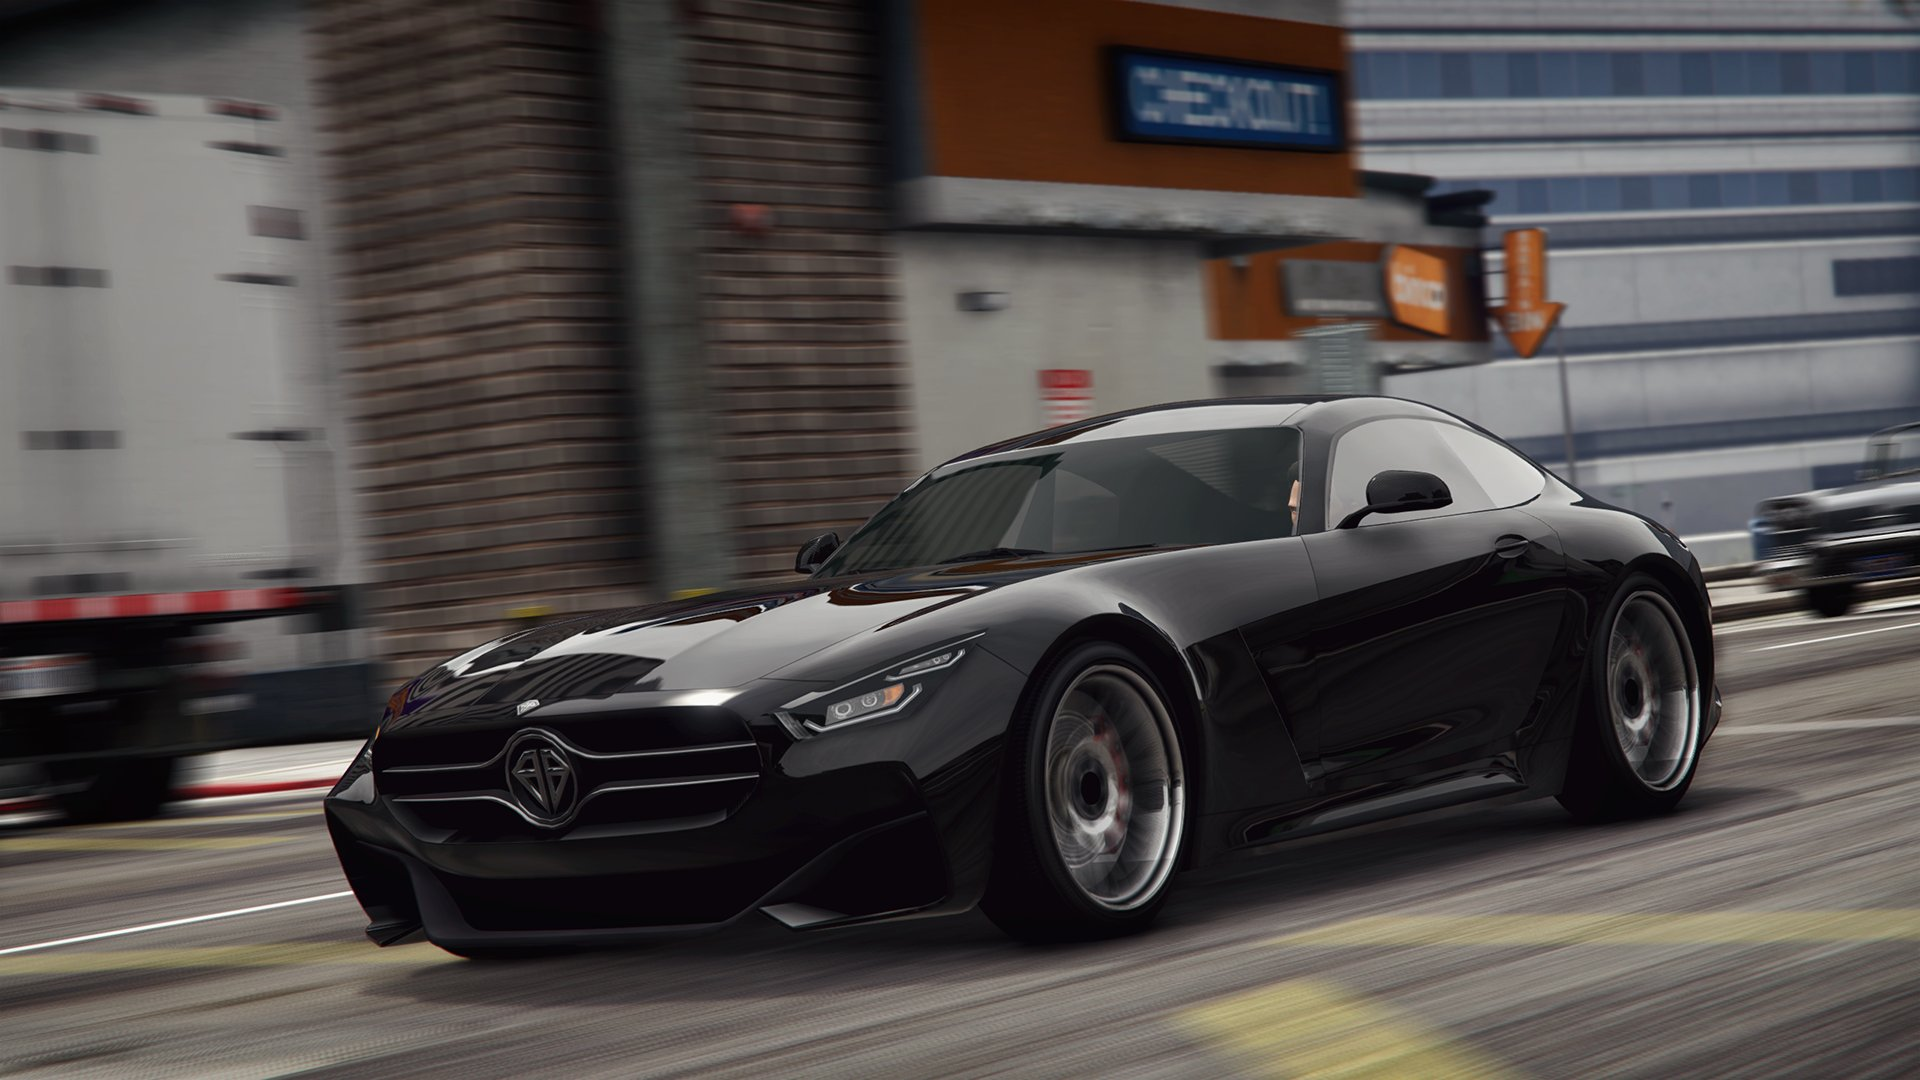
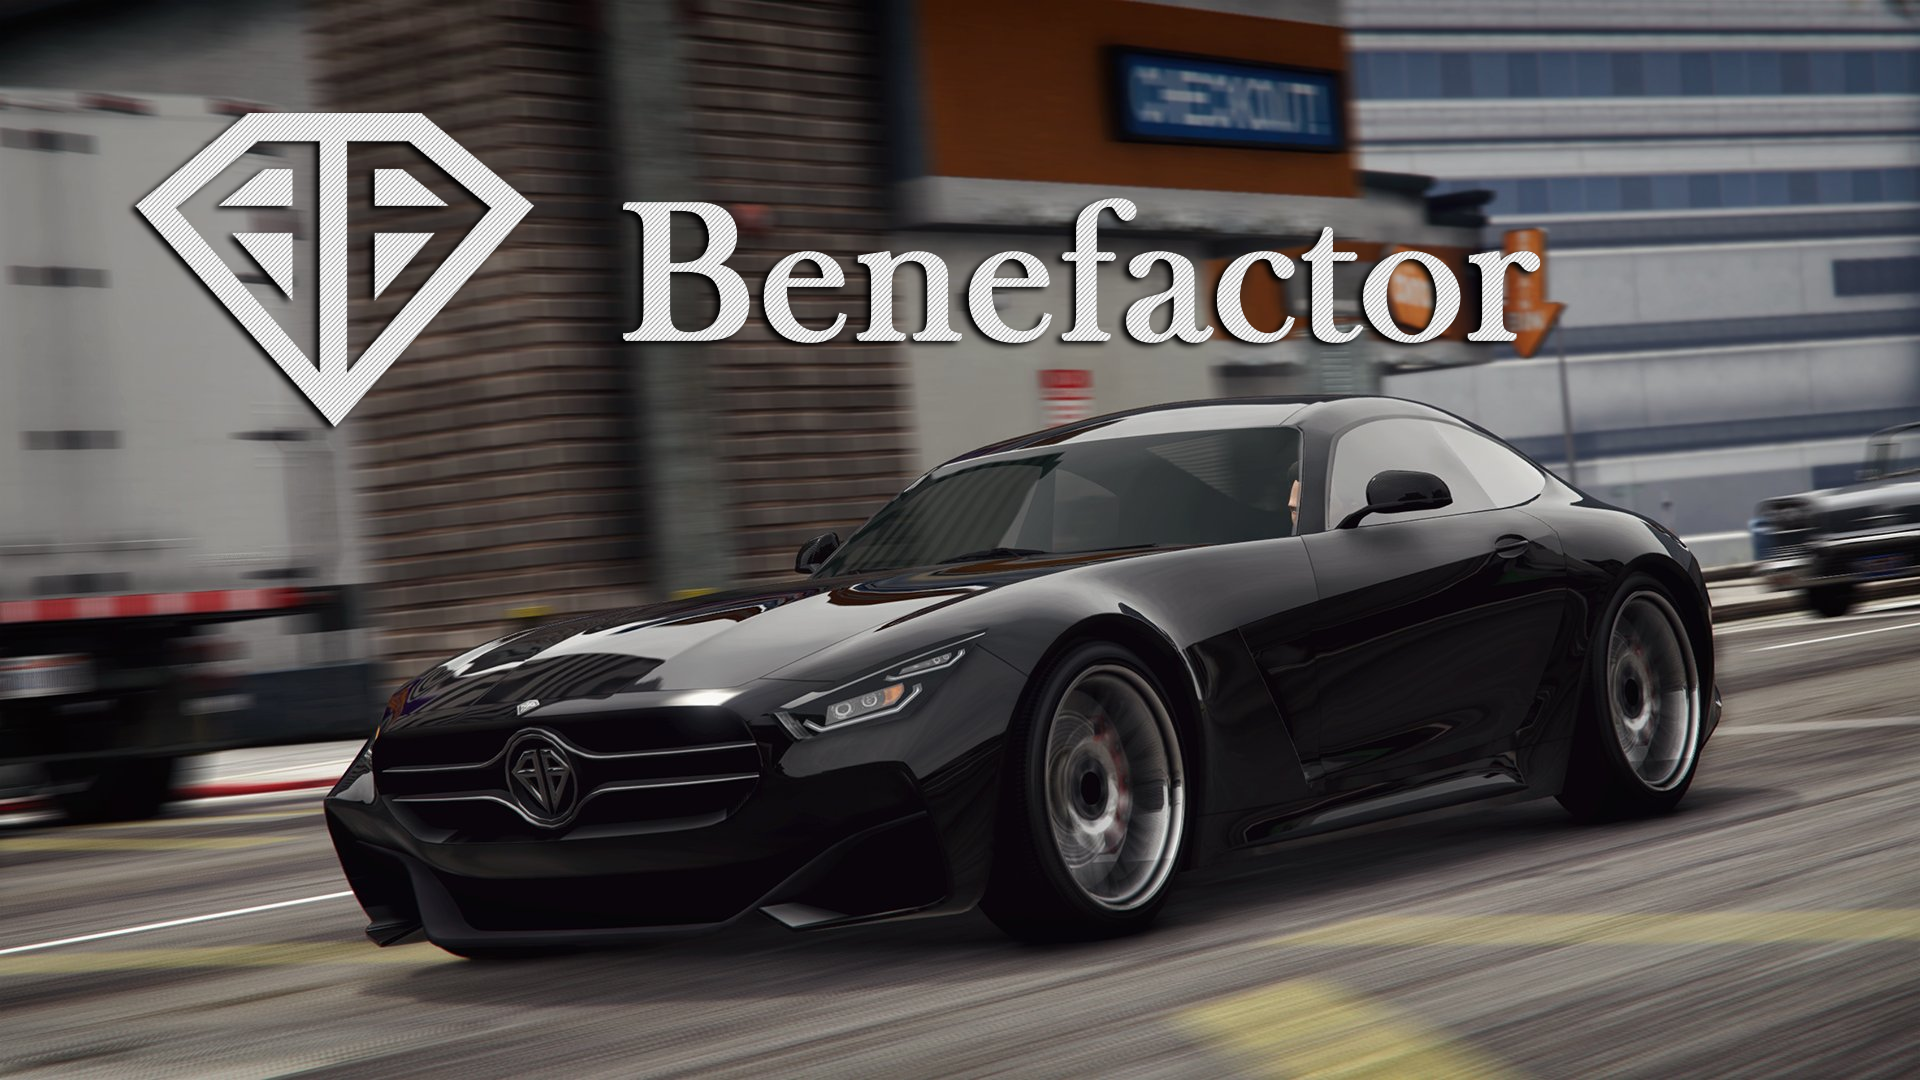
Fixes og forbedringer på forsiden. Ændret i headerimg. (Det gamle er der stadig, rolig.)

Changed region(s): [[0.3125, 0.1833, 0.8125, 0.3361], [0.0625, 0.0917, 0.2812, 0.3972]]

diff --git a/index.html b/index.html
@@ -14,19 +14,18 @@
 
 <body>
     <div class="bfTopMenu">
-        <div class="overlay">
+        <a href="#" class="overlay">
             <div class="topbarlogowrap">
                 <h1>Benefactor</h1>
                 <img src="images/bflogoWhite.png" alt="BenefactorLogo">
             </div>
             <div class="line1"></div>
             <div class="line2"></div>
-        </div>
+        </a>
     </div>
 
     <div class="bfSideMenu">
         <div class="overlay">
-<!--            <div class="space"></div>-->
             <img class="homeIcon top" src="images/iconHome.png" alt="BenefactorLogo">
             <img class="homeIcon bot" src="images/iconHomeOutline.png" alt="BenefactorLogo">
 
@@ -40,8 +39,8 @@
             <img class="phoneIcon bot" src="images/iconPhoneOutline.png" alt="BenefactorLogo">
 
 
-            <a href="#home" class="homeLine">Home</a>
-            <a href="productpage.html" class="bookLine">Models</a>
+            <a href="#" class="homeLine">Home</a>
+            <a href="products.html" class="bookLine">Models</a>
             <a href="#" class="wrenchLine">Book service</a>
             <a href="#contactSection" class="phoneLine">Contact us</a>
 
@@ -66,7 +65,7 @@
                 </div>
 
                 <div class="botBox">
-                    <h3>Build your Benefactor</h3>
+                    <h5>Build your Benefactor</h5>
                 </div>
             </div>
 
@@ -77,7 +76,7 @@
                 </div>
 
                 <div class="botBox">
-                    <h3>Build your Benefactor</h3>
+                    <h5>Build your Benefactor</h5>
                 </div>
             </div>
 
@@ -88,7 +87,7 @@
                 </div>
 
                 <div class="botBox">
-                    <h3>Build your Benefactor</h3>
+                    <h5>Build your Benefactor</h5>
                 </div>
             </div>
 
@@ -99,7 +98,7 @@
                 </div>
 
                 <a class="botBox">
-                    <h3>Build your Benefactor</h3>
+                    <h5>Build your Benefactor</h5>
                 </a>
             </div>
 
@@ -109,9 +108,9 @@
                     <h3>$ 208,000*</h3>
                 </div>
 
-                <div class="botBox">
-                    <h3>Build your Benefactor</h3>
-                </div>
+                <a href="productpage.html" class="botBox" style="text-decoration: none;">
+                    <h5>Build your Benefactor</h5>
+                </a>
             </div>
 
             <div class="xlsModel">
@@ -121,28 +120,28 @@
                 </div>
 
                 <div class="botBox">
-                    <h3>Build your Benefactor</h3>
+                    <h5>Build your Benefactor</h5>
                 </div>
             </div>
 
 
         </div>
     </div>
-    <h1 class="fancyOffersH1">Fancy offers</h1>
+    <h1 class="fancyOffersH1">Special Offers</h1>
     <div class="fancyOffers">
 
         <div class="stirling">
             <img src="images/Stirling%20GT.png" alt="stirlingGT">
             <div>
-                <h3>Special offcer!</h3>
+                <h3>Exclusive Offer!</h3>
                 <h2>Sterling GT</h2>
                 <h4>The classic 2-door coupe!</h4>
 
                 <p>The Stirling GT is a landmark of Germany's proud history of helping flabby, self-loathing businessmen pretend they're Grand Prix drivers... for two minutes between freeway traffic jams.
                     It's a tradition that's been around for at least sixty years, so while it's still pathetic, at least it got there first.</p>
-                <div class="offerButton">
+                <a class="offerButton">
                     Get your own exclusive deal right here!
-                </div>
+                </a>
             </div>
         </div>
 
@@ -260,9 +259,6 @@
             <p></p>
             <a href="#">-  Road assistance</a>
         </div>
-<!--        <div class="spacer">-->
-
-<!--        </div>-->
     </div>
 
     <div class="spacer">
@@ -272,8 +268,6 @@
         <img class="road" src="images/road.png" alt="car">
 
     </div>
-
-<!--    <div class="spacerrr"></div>-->
 
     <script src="https://ajax.googleapis.com/ajax/libs/jquery/3.4.1/jquery.min.js"></script>
     <script>
@@ -332,14 +326,6 @@
                 "background-color": "rgba(0, 0, 0, 0.5)"
             })
         })
-
-        // $(".carAnimate").animate({
-        //     left: "600px"
-        // }, "slow" )
-
-
-
-
 
 
     </script>

diff --git a/css/styles.css b/css/styles.css
@@ -38,13 +38,13 @@ img {
 	height: 7vh;
 	position: fixed;
 	background-image: url("../images/topbarBG.png");
-	/*background-image: url("../images/bflogoWhite.png");*/
 }
 
 .overlay{
 	width: 100%;
 	height: 100%;
 	background-color: rgba(0, 0, 0, 0.5);
+	text-decoration: none;
 }
 
 .topbarlogowrap{
@@ -145,8 +145,8 @@ img {
 
 .overlay a{
 	display: none;
-	font-size: 3rem;
-	font-family: "Open Sans Light", serif;
+	font-size: 2.5rem;
+	font-family: 'News Cycle', sans-serif;
 	font-weight: lighter;
 	text-decoration: none;
 	color: white;
@@ -159,7 +159,8 @@ img {
 .overlay a:hover{
 	color: orange;
 	pointer-events: none;
-	font-family: 'Open Sans', sans-serif;
+	font-family: 'News Cycle', sans-serif;
+	text-decoration: none;
 }
 
 .homeLine{
@@ -202,11 +203,12 @@ img {
 
 .modelsGrid{
 	display: grid;
-	/*grid-column-gap: 3.5vh;*/
+	grid-column-gap: 3.5vh;
+	grid-row-gap: 3.5vh;
 	grid-template-columns: repeat(3, 1fr);
 }
 
-.modelsGrid div h2, h3{
+.modelsGrid div h2, h3, h5{
 	margin: 0;
 	color: white;
 	text-align: left;
@@ -220,10 +222,17 @@ img {
 	font-size: 30px;
 	line-height: 30px;
 }
-.modelsGrid div h3{
+
+.modelsGrid div h3 {
 	font-size: 15px;
 	line-height: 15px;
 }
+
+.modelsGrid div h5 {
+	font-size: 15px;
+	line-height: 15px;
+}
+
 
 .modelsGrid div{
 	background-size: 100%;
@@ -278,12 +287,13 @@ img {
 	justify-content: center;
 }
 
-.botBox:hover h3{
-	color: orange;
+.botBox:hover, h5:hover {
+	color: black;
 	pointer-events: none;
+	background-color: orange;
 }
 
-.botBox h3{
+.botBox h3, h5{
 	font-size: 16px;
 	font-weight: 500;
 	align-self: center;
@@ -351,6 +361,10 @@ img {
 	border-radius: 2px;
 }
 
+.offerButton:hover{
+	background-color: orange;
+	color: black;
+}
 
 .stirling, .terrorbyte, .krieger{
 	display: grid;
@@ -443,7 +457,7 @@ img {
 	font-family: 'News Cycle', sans-serif;
 	padding: 0 0 0 7vh;
 	margin: 0;
-	font-size: 30px;
+	font-size: 25px;
 	color: #4F4F4F;
 }
 
@@ -485,7 +499,6 @@ img {
 	bottom: 0;
 	z-index: -1;
 }
-
 
 .carAnimate{
 	position: absolute;
@@ -570,11 +583,6 @@ img {
 	}
 }
 /*---------------------------------------------------   FOOTER   ---------------------------------------------------*/
-
-
-/*.spacerrr{*/
-/*	height: 10vh;*/
-/*}*/
 
 
 
